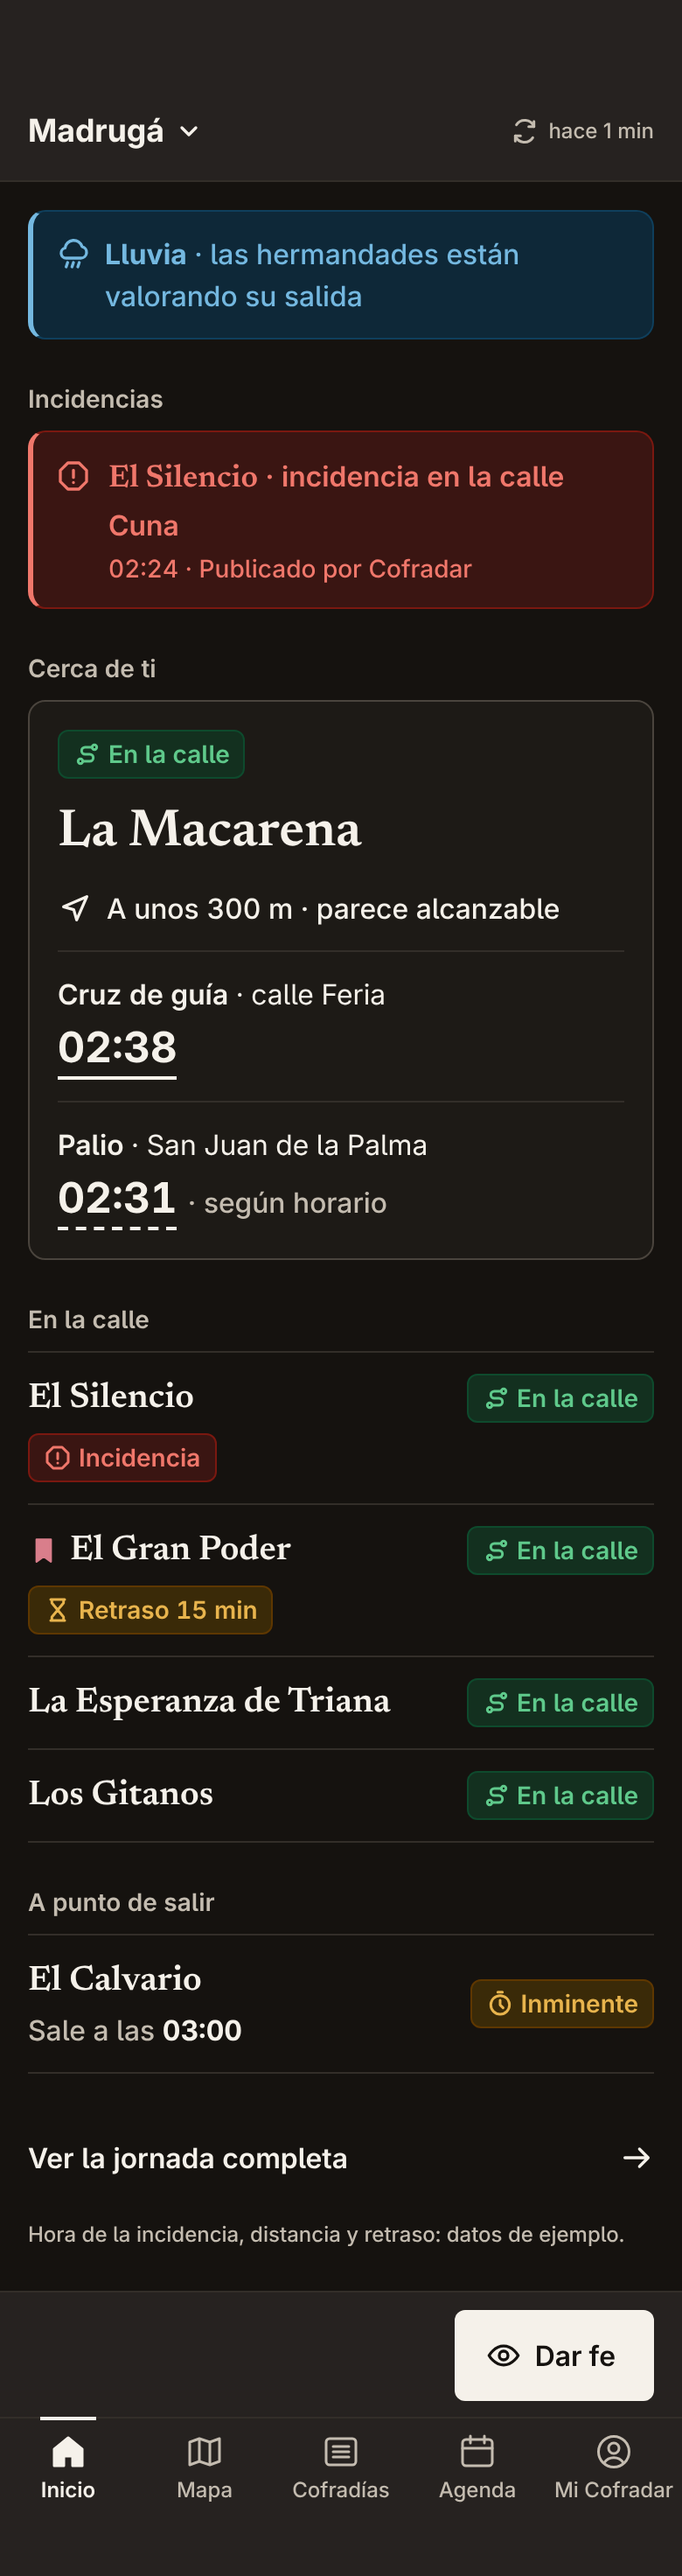
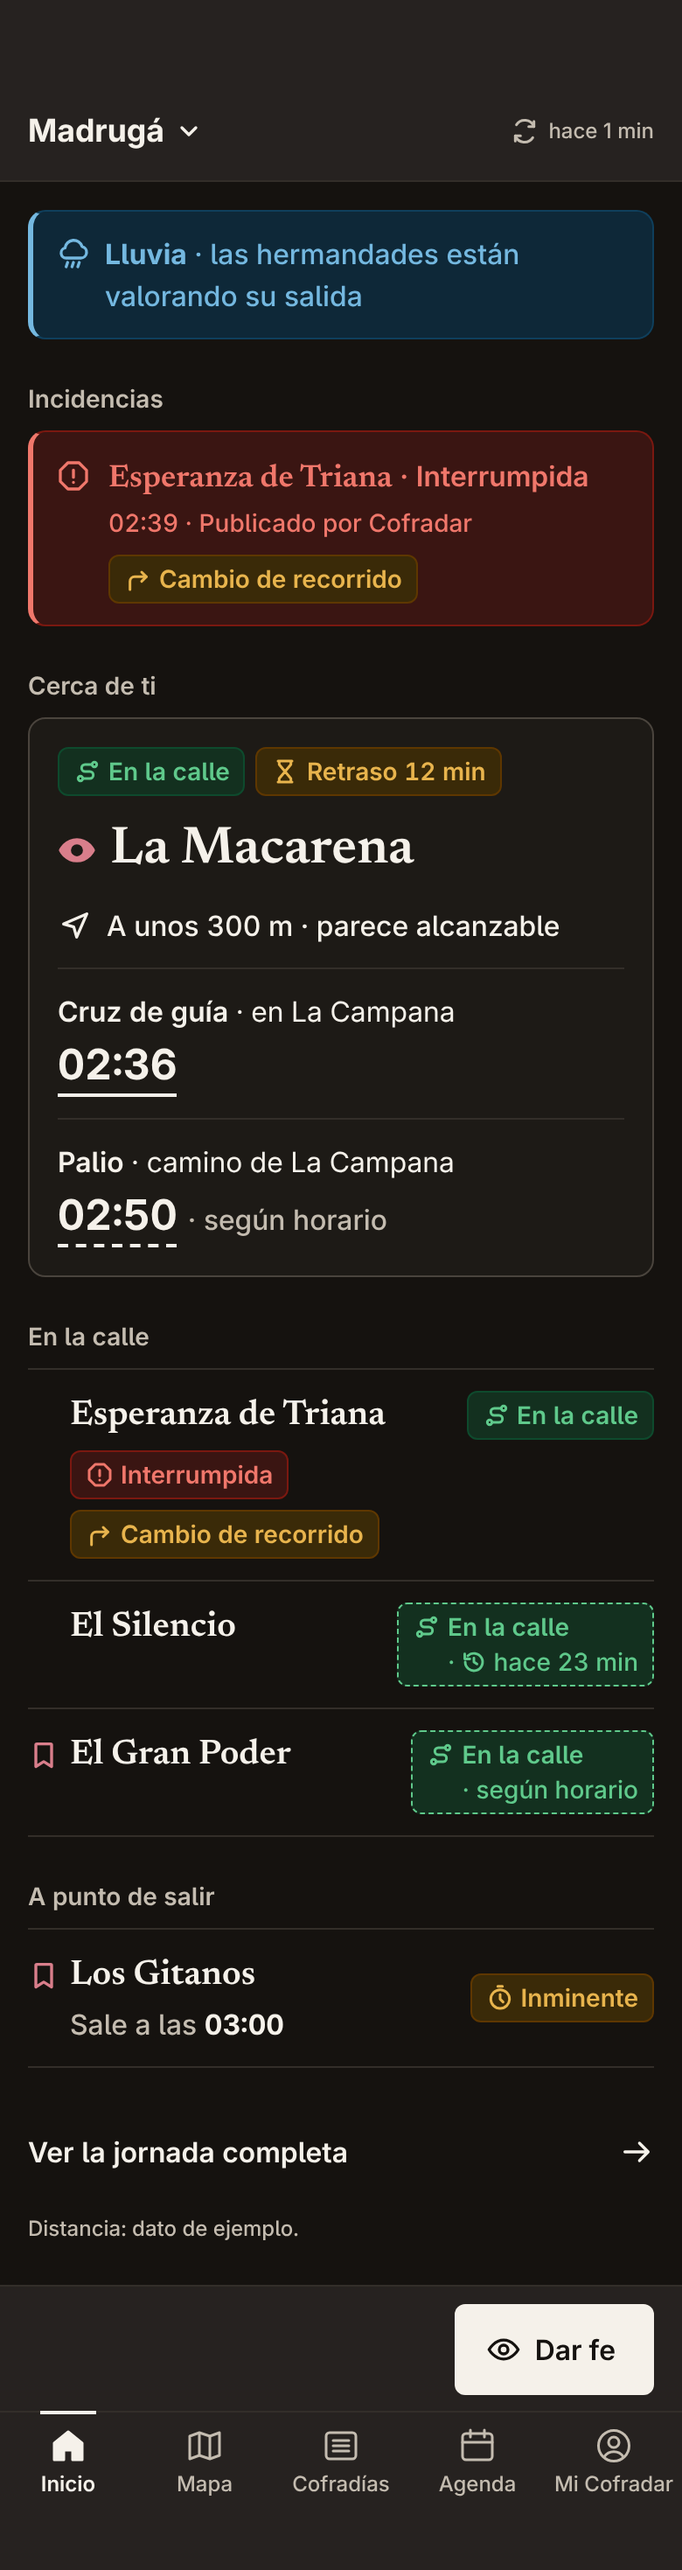
Inicio: fichas con los datos del fixture

diff --git a/docs/design/pantallas/LEEME.md b/docs/design/pantallas/LEEME.md
@@ -50,9 +50,9 @@ Estas fichas se hicieron antes de la revisión del PRD y **no deben usarse como 
 
 ## 2-inicio
 
-**Vigentes** · lienzo «Cofradar · Inicio» (https://claude.ai/artifact/N8L84mRcJePUtfK6rEpJH7), aprobado el 13 de octubre de 2026 en BUL-192. Solo PNG, a 780 de ancho (390 a 2×); las de jornada activa son largas porque se dibujan enteras, con el desplazamiento incluido. Las horas de la incidencia, la distancia y el retraso son datos de ejemplo.
+**Vigentes** · lienzo «Cofradar · Inicio» (https://claude.ai/artifact/N8L84mRcJePUtfK6rEpJH7), aprobado el 13 de octubre de 2026 en BUL-192. Solo PNG, a 780 de ancho (390 a 2×); las de jornada activa son largas porque se dibujan enteras, con el desplazamiento incluido. Los datos salen del fixture (`docs/datos/mock/`) salvo la distancia, que es de ejemplo.
 
-- `inicio-A-con-ubicacion-{claro,oscuro}` — A · JORNADA ACTIVA · MADRUGÁ, 02:40 · CON UBICACIÓN. La protagonista (La Macarena) va bajo «Cerca de ti» y no se repite en «En la calle». El Silencio aparece en el aviso de incidencias y además en su fila de «En la calle», con chip «Incidencia».
+- `inicio-A-con-ubicacion-{claro,oscuro}` — A · JORNADA ACTIVA · MADRUGÁ, 02:40 · CON UBICACIÓN. La protagonista (La Macarena) va bajo «Cerca de ti» y no se repite en «En la calle». La Esperanza de Triana aparece en el aviso de incidencias («Interrumpida») y además en su fila de «En la calle». El Calvario, finalizada, no aparece.
 - `inicio-B-sin-ubicacion-claro` — B · SIN UBICACIÓN. La protagonista encabeza «En la calle».
 - `inicio-C-sin-actividad-claro` — C · SIN ACTIVIDAD. Ninguna en la calle; próxima salida.
 - `inicio-D-fuera-de-temporada-claro` — D · FUERA DE TEMPORADA. Cuenta atrás al Domingo de Ramos y «Consultar las cofradías»; la cabecera muestra la jornada a la que apunta.
